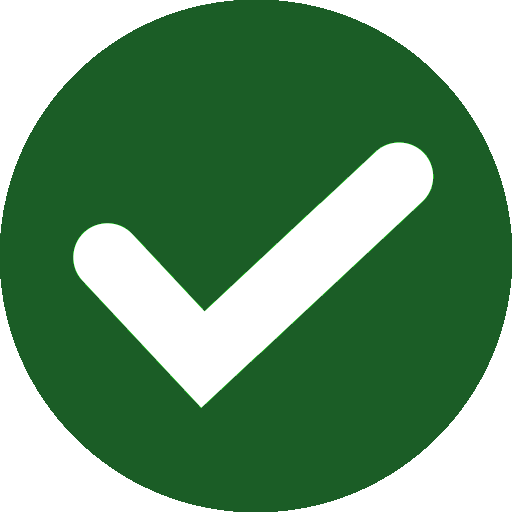
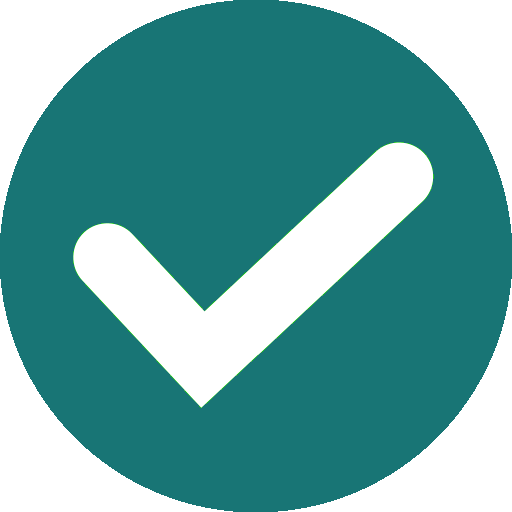
Fix margin

diff --git a/Enter.html b/Enter.html
@@ -7,11 +7,14 @@
   <link rel="preconnect" href="https://fonts.gstatic.com">
   <link rel="preconnect" href="https://fonts.gstatic.com">
   <link rel="preconnect" href="https://fonts.gstatic.com">
-  <link href="https://fonts.googleapis.com/css2?family=Tajawal:wght@900&display=swap" rel="stylesheet">  
-  <link href="https://fonts.googleapis.com/css2?family=Tajawal&display=swap" rel="stylesheet">  
+  <link href="https://fonts.googleapis.com/css2?family=Tajawal:wght@900&display=swap" rel="stylesheet">
+  <link href="https://fonts.googleapis.com/css2?family=Tajawal&display=swap" rel="stylesheet">
 
   <style>
-    p, button, label, select {
+    p,
+    button,
+    label,
+    select {
       color: black;
       font-family: 'Tajawal', sans-serif;
       font-size: 78%;
@@ -23,46 +26,62 @@
     }
 
     #Enter {
-      background-color: #1b5d26;
+      background-color: #187575;
       color: white;
       font-size: 120%;
       border: 0;
       padding: 10px;
+      border-radius: 3px;
     }
 
     #cancel {
       font-size: 120%;
       border: 0;
       padding: 10px;
+      border-radius: 3px;
+      color: white;
+      background-color: #dcdcdc;
     }
 
-    html, body {
+    html,
+    body {
       overflow-x: hidden;
       direction: rtl;
-      
+
     }
 
-    p, label {
+    p,
+    label {
       font-size: 120%;
     }
 
     select {
       width: 100px;
+      height: 30px;
+      border-color: #ccc;
+      border-radius: 4px;
+      background: white;
     }
 
     img {
-      width: 70px;
+      width: 40px;
     }
 
     .container {
       position: absolute;
       border: 1px solid transparent;
       border-radius: 5px;
-      padding: 10px 0;
+      padding: 10px 5px;
       background-color: white;
       top: 150px;
       text-align: center;
-      right: inherit;
+      right: 10px;
+    }
+
+    html, body {
+      overflow-x: hidden;
+      margin: 0;
+
     }
   </style>
   <title>توكلنا</title>
@@ -73,42 +92,42 @@
   <img src="img2.png" alt="" style="width: 320px; filter: brightness(40%)">
   <div class="container">
 
-  <img src="check.png" />
-  <p>العدد الحالي لمن هم بداخل التجمع</p>
+    <img src="check.png" />
+    <p>العدد الحالي لمن هم بداخل التجمع</p>
 
-  <p>&#9744;&#9744; من أصل &#9744;&#9744;</p>
+    <p>&#9744;&#9744; من أصل &#9744;&#9744;</p>
 
-  <label for="cars">عدد المرافقين:</label>
+    <label for="cars">عدد المرافقين:</label>
 
-  <select name="cars" id="cars">
-    <option value="">0</option>
-    <option value="">1</option>
-    <option value="">2</option>
-    <option value="">3</option>
-    <option value="">4</option>
-    <option value="">5</option>
-    <option value="">6</option>
-    <option value="">7</option>
-    <option value="">8</option>
-    <option value="">9</option>
-  </select>
+    <select name="cars" id="cars">
+      <option value="">0</option>
+      <option value="">1</option>
+      <option value="">2</option>
+      <option value="">3</option>
+      <option value="">4</option>
+      <option value="">5</option>
+      <option value="">6</option>
+      <option value="">7</option>
+      <option value="">8</option>
+      <option value="">9</option>
+    </select>
 
-  <br><br>
+    <br><br>
 
-  <button id="Enter">تسجيل الدخول</button>
-  <button id="Cancel">إلغاء</button>
+    <button id="Enter">تسجيل الدخول</button>
+    <button id="Cancel">إلغاء</button>
 
-</div>
+  </div>
 </body>
 <script>
 
-function Enter() {
-      window.location.href = "index3.html";
-    }
+  function Enter() {
+    window.location.href = "index3.html";
+  }
 
-    document.getElementById('Enter').addEventListener('click',  function() {
-      Enter();
-    });
+  document.getElementById('Enter').addEventListener('click', function () {
+    Enter();
+  });
 </script>
 
 </html>

diff --git a/index3.html b/index3.html
@@ -247,6 +247,13 @@
       scanPage();
     });
 
+    window.setTimeout(function(){
+
+// Move to a new location or you can do something else
+window.location.href = "index.html";
+
+}, 5000);
+
 
   </script>
 </body>
